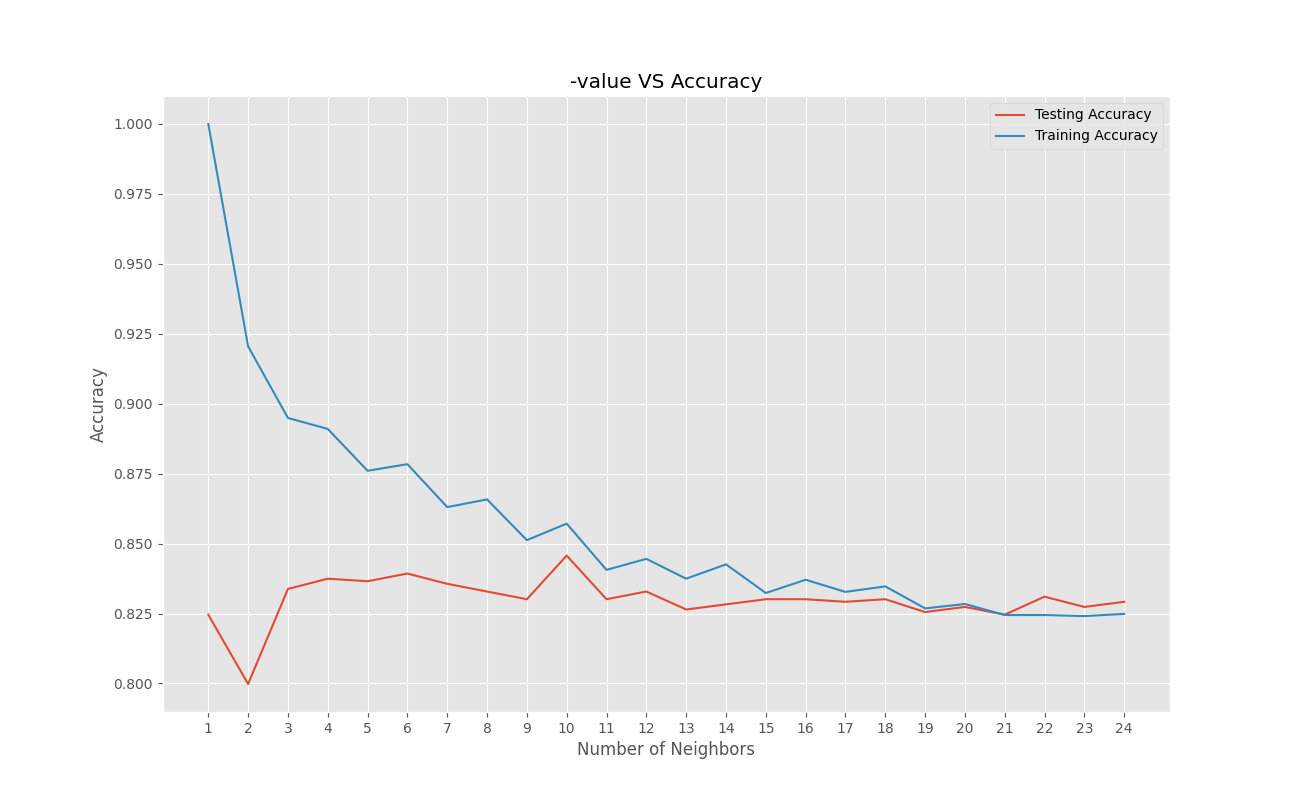
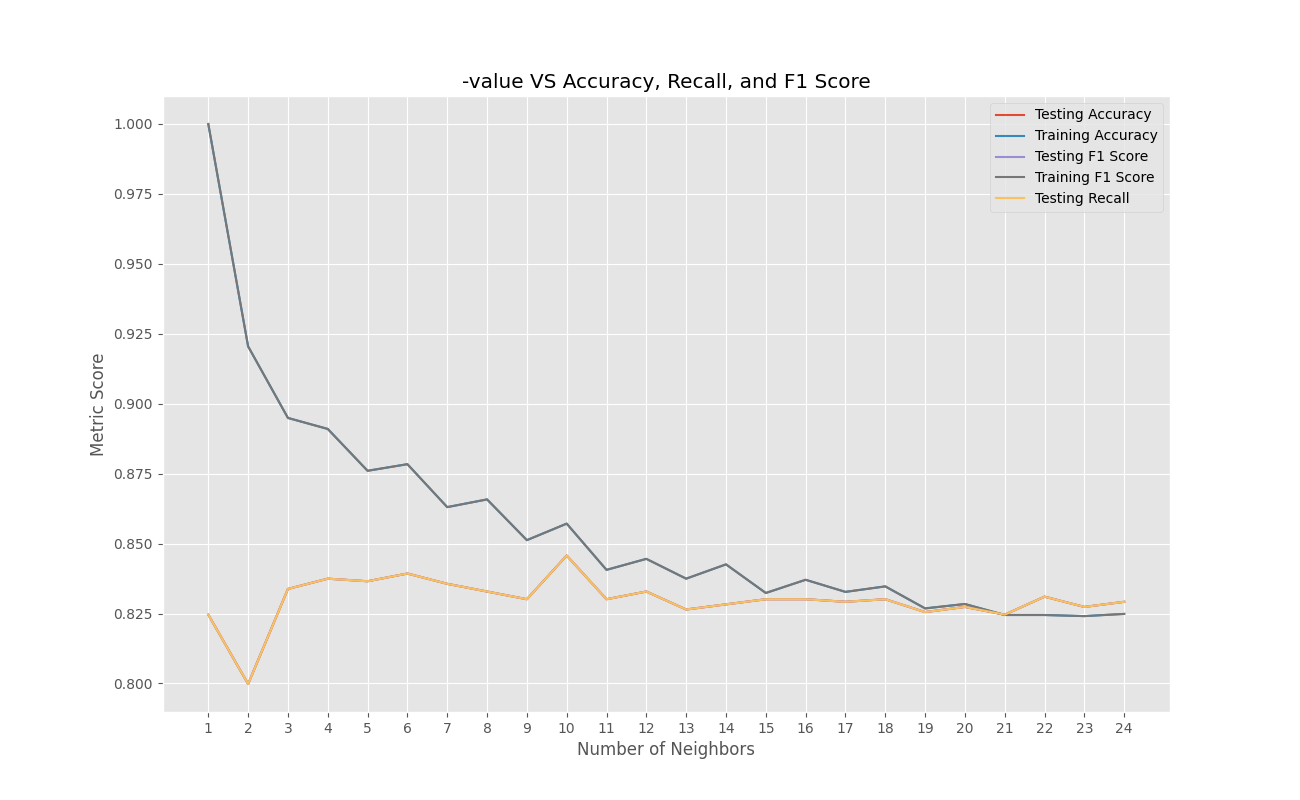
new update

diff --git a/model.py b/model.py
@@ -80,7 +80,9 @@ neig = np.arange(1, 25)
 train_accuracy = []
 test_accuracy = []
 test_recall = []
+train_recall = []
 test_f1 = []
+train_f1 = []
 
 # Loop over different values of k
 for i, k in enumerate(neig):
@@ -93,13 +95,13 @@ for i, k in enumerate(neig):
     # test accuracy
     test_accuracy.append(knn.score(x_test, y_test))
     # train recall
-    test_recall.append(recall_score(y_train, knn.predict(x_train)))
+    train_recall.append(knn.score(x_train, y_train))
     # test recall
-    test_recall.append(recall_score(y_test, knn.predict(x_test)))
+    test_recall.append(knn.score(x_test, y_test))
     # train f1 score
-    test_f1.append(f1_score(y_train, knn.predict(x_train)))
+    train_f1.append(knn.score(x_train, y_train))
     # test f1 score
-    test_f1.append(f1_score(y_test, knn.predict(x_test)))
+    test_f1.append(knn.score(x_test, y_test))
 
 
 # Plot
@@ -107,17 +109,20 @@ plt.figure(figsize=[13, 8])
 plt.plot(neig, test_accuracy, label='Testing Accuracy')
 plt.plot(neig, train_accuracy, label='Training Accuracy')
 plt.plot(neig, test_f1, label='Testing F1 Score')
-plt.plot(neig, train_accuracy, label='Training Accuracy')
+plt.plot(neig, train_f1, label='Training F1 Score')
+plt.plot(neig, test_recall, label='Testing Recall')
 plt.legend()
 plt.title('-value VS Accuracy, Recall, and F1 Score')
+# plt.title('-value VS Accuracy')
 plt.xlabel('Number of Neighbors')
 plt.ylabel('Metric Score')
+# plt.ylabel('Accuracy')
 plt.xticks(neig)
 plt.savefig('graph.png')
 plt.show()
 print("Best accuracy is {} with K = {}".format(np.max(test_accuracy), 1 + test_accuracy.index(np.max(test_accuracy))))
-print("Best f1 score is {} with K = {}".format(np.max(test_f1)), 1 + test_accuracy.index(np.max(test_accuracy)))
-print("Best recall is {} with K = {}\n".format(np.max(test_recall), 1 + test_accuracy.index(np.max(test_accuracy))))
+print("Best f1 score is {} with K = {}".format(np.max(test_f1), 1 + test_f1.index(np.max(test_f1))))
+print("Best recall is {} with K = {}\n".format(np.max(test_recall), 1 + test_recall.index(np.max(test_recall))))
 
 # Logistic regression - accuracy = 91.83%
 from sklearn.linear_model import LogisticRegression
